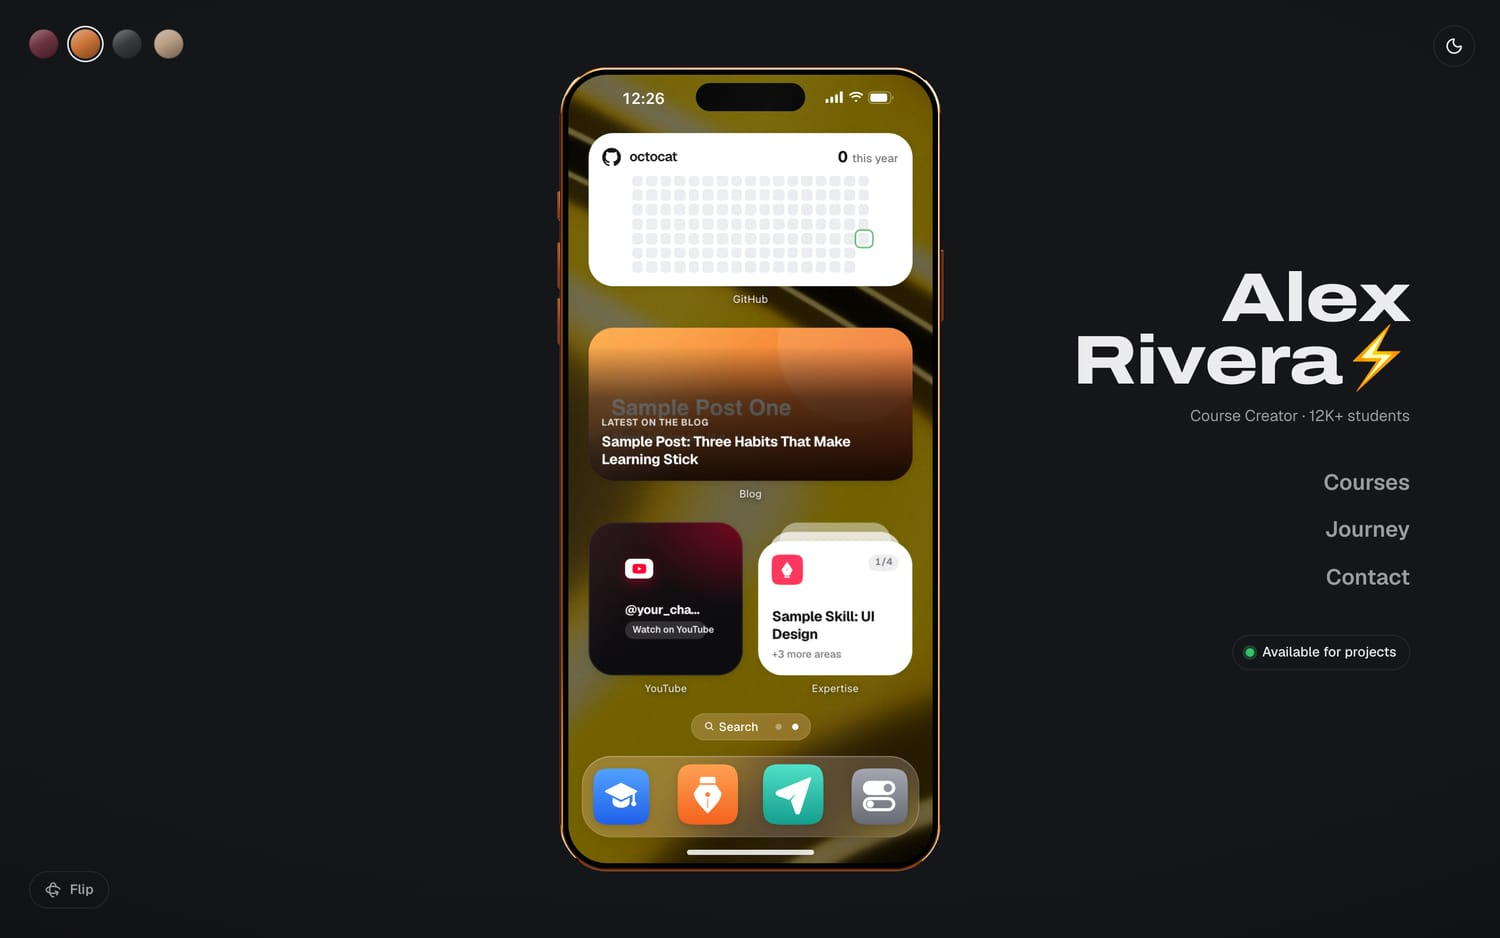
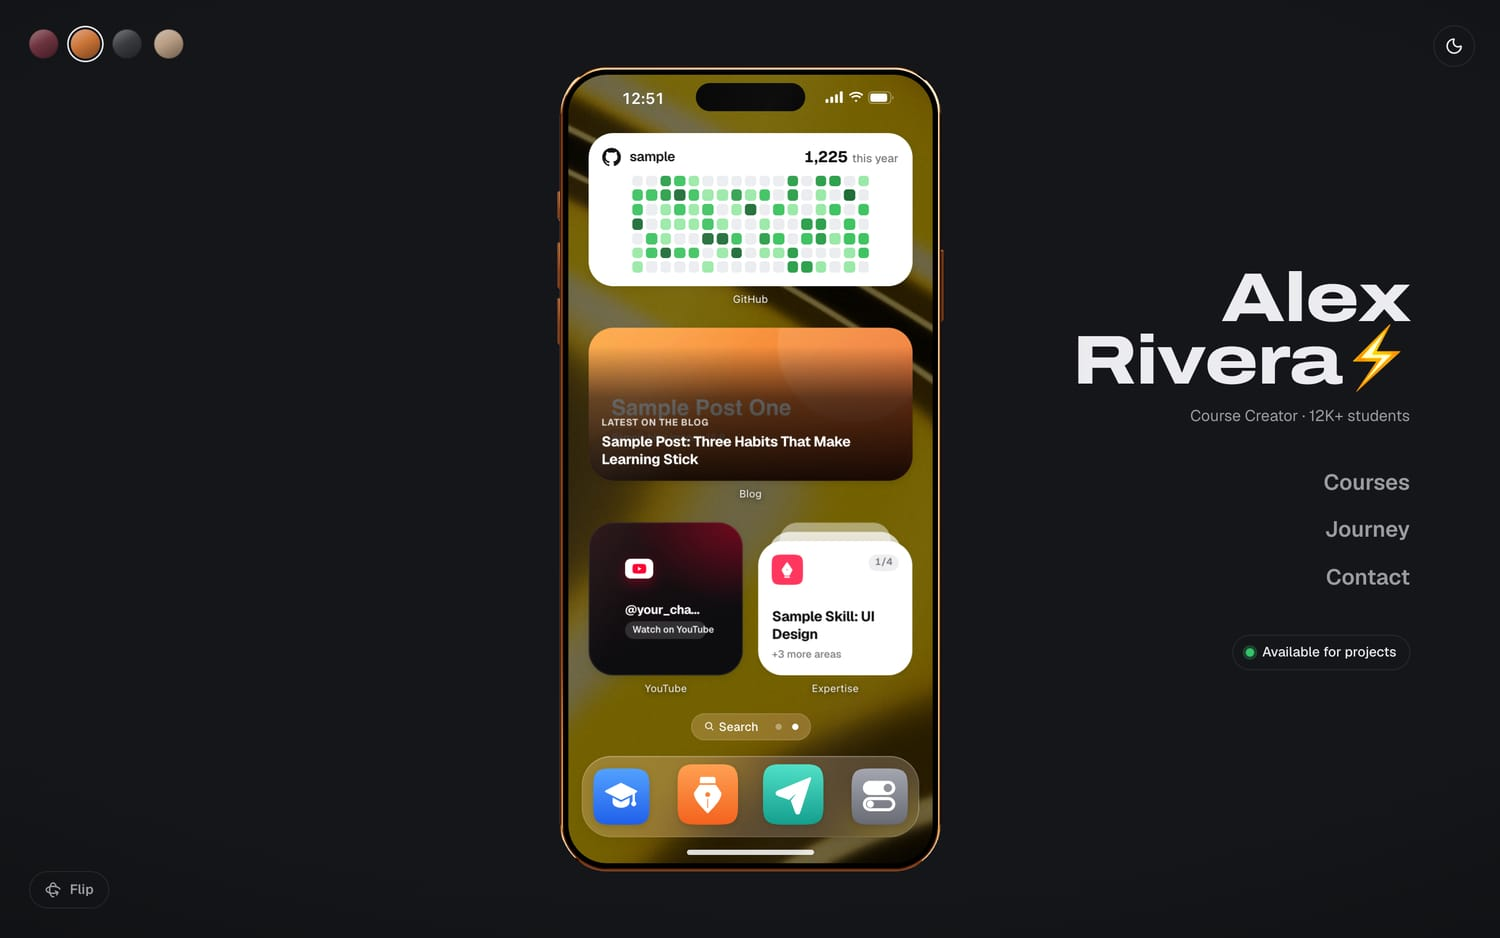
Guide v2.0.1: page 2 shows the template's sample heatmap snapshot (HEATMAP=snapshot capture)

diff --git a/guide/Build-Your-Own-Pocket-Portfolio.md b/guide/Build-Your-Own-Pocket-Portfolio.md
@@ -2,7 +2,7 @@
 
 *A 3D phone-style personal website. No coding experience needed.*
 
-by **Chetan Pujari** · October 2026 · v2.0
+by **Chetan Pujari** · October 2026 · v2.0.1
 
 ![The 3D phone on desktop](images/hero-front.jpg)
 
@@ -29,7 +29,7 @@ Every section of your portfolio is an app on the home screen: your courses or pr
 
 ![The template on a desktop, with its sample persona: the 3D phone, the name and nav on the right, finish swatches top-left.](images/hero-front.jpg)
 
-![Home page 2: the live GitHub heatmap, the latest blog post, a YouTube card and the Expertise stack.](images/page2.jpg)
+![Home page 2: the GitHub heatmap (here the template's sample snapshot; yours is live), the latest blog post, a YouTube card and the Expertise stack.](images/page2.jpg)
 ![An open app (Courses). It grows out of its icon and flies back into it.](images/app-courses.jpg)
 
 

diff --git a/guide/content.md b/guide/content.md
@@ -7,7 +7,7 @@ Every section of your portfolio is an app on the home screen: your courses or pr
 ![The template on a desktop, with its sample persona: the 3D phone, the name and nav on the right, finish swatches top-left.](images/hero-front.jpg)
 
 ::: figures
-![Home page 2: the live GitHub heatmap, the latest blog post, a YouTube card and the Expertise stack.](images/page2.jpg)
+![Home page 2: the GitHub heatmap (here the template's sample snapshot; yours is live), the latest blog post, a YouTube card and the Expertise stack.](images/page2.jpg)
 ![An open app (Courses). It grows out of its icon and flies back into it.](images/app-courses.jpg)
 :::
 
